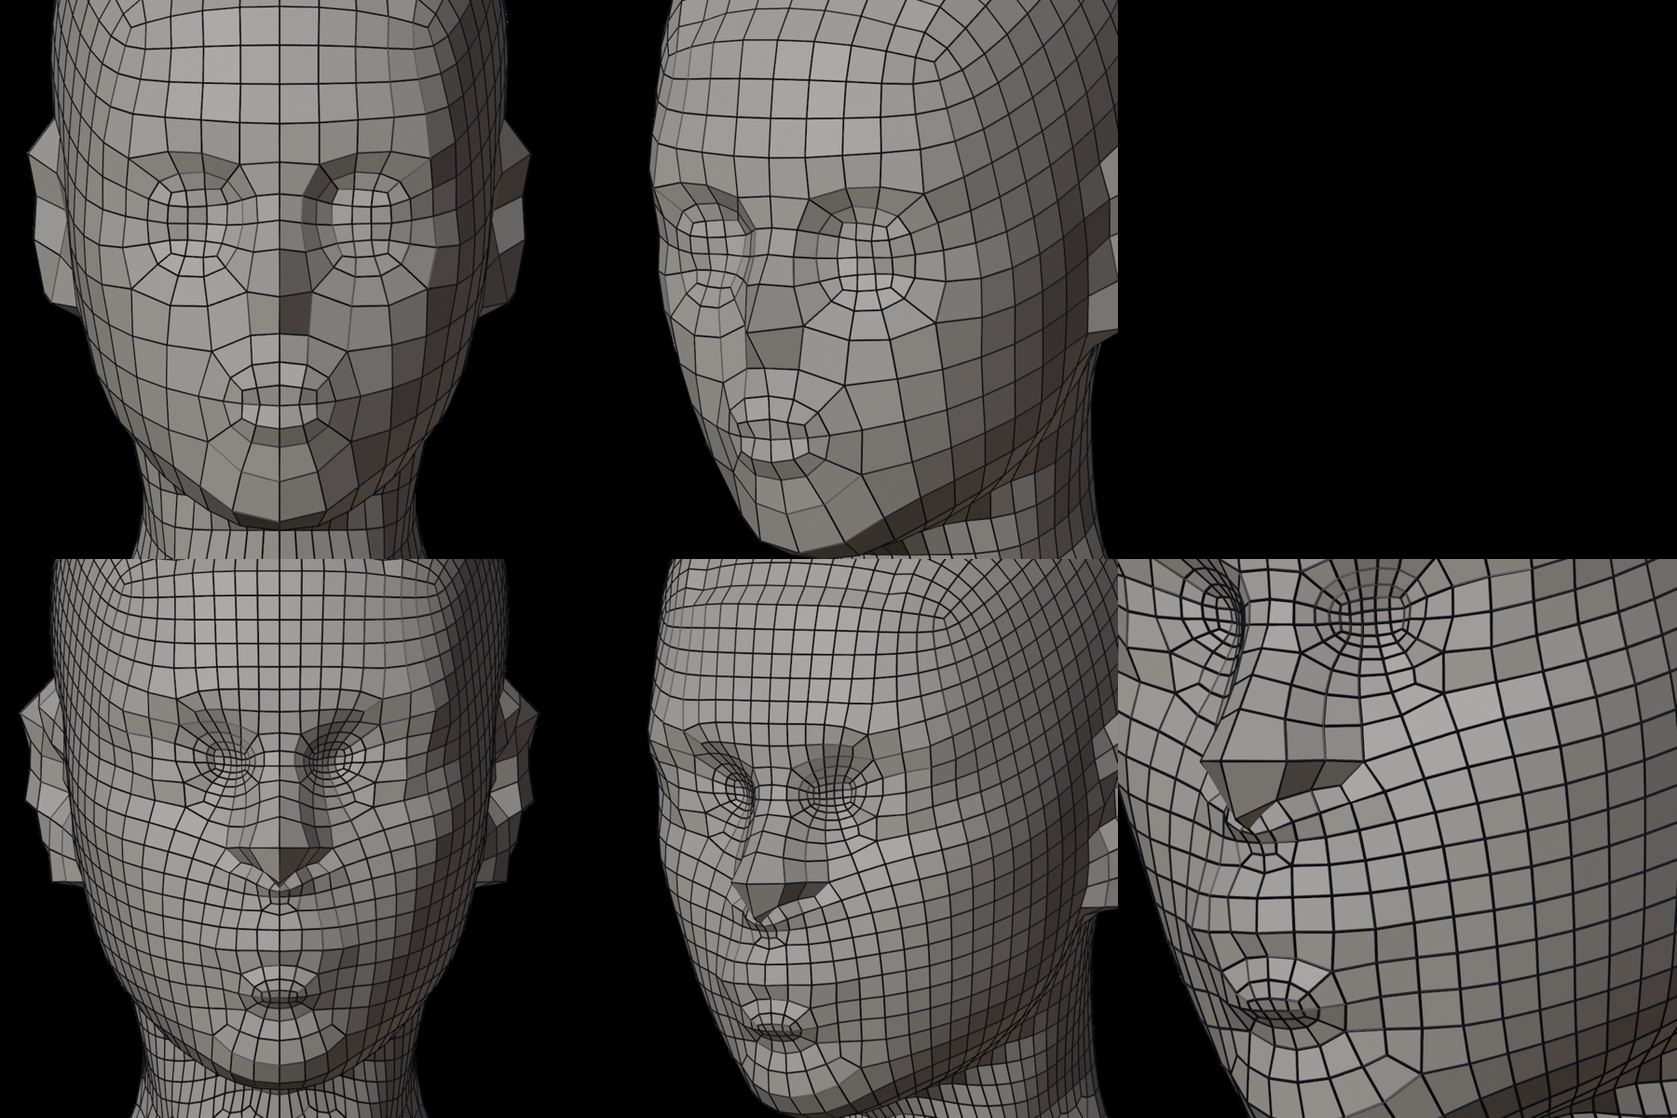
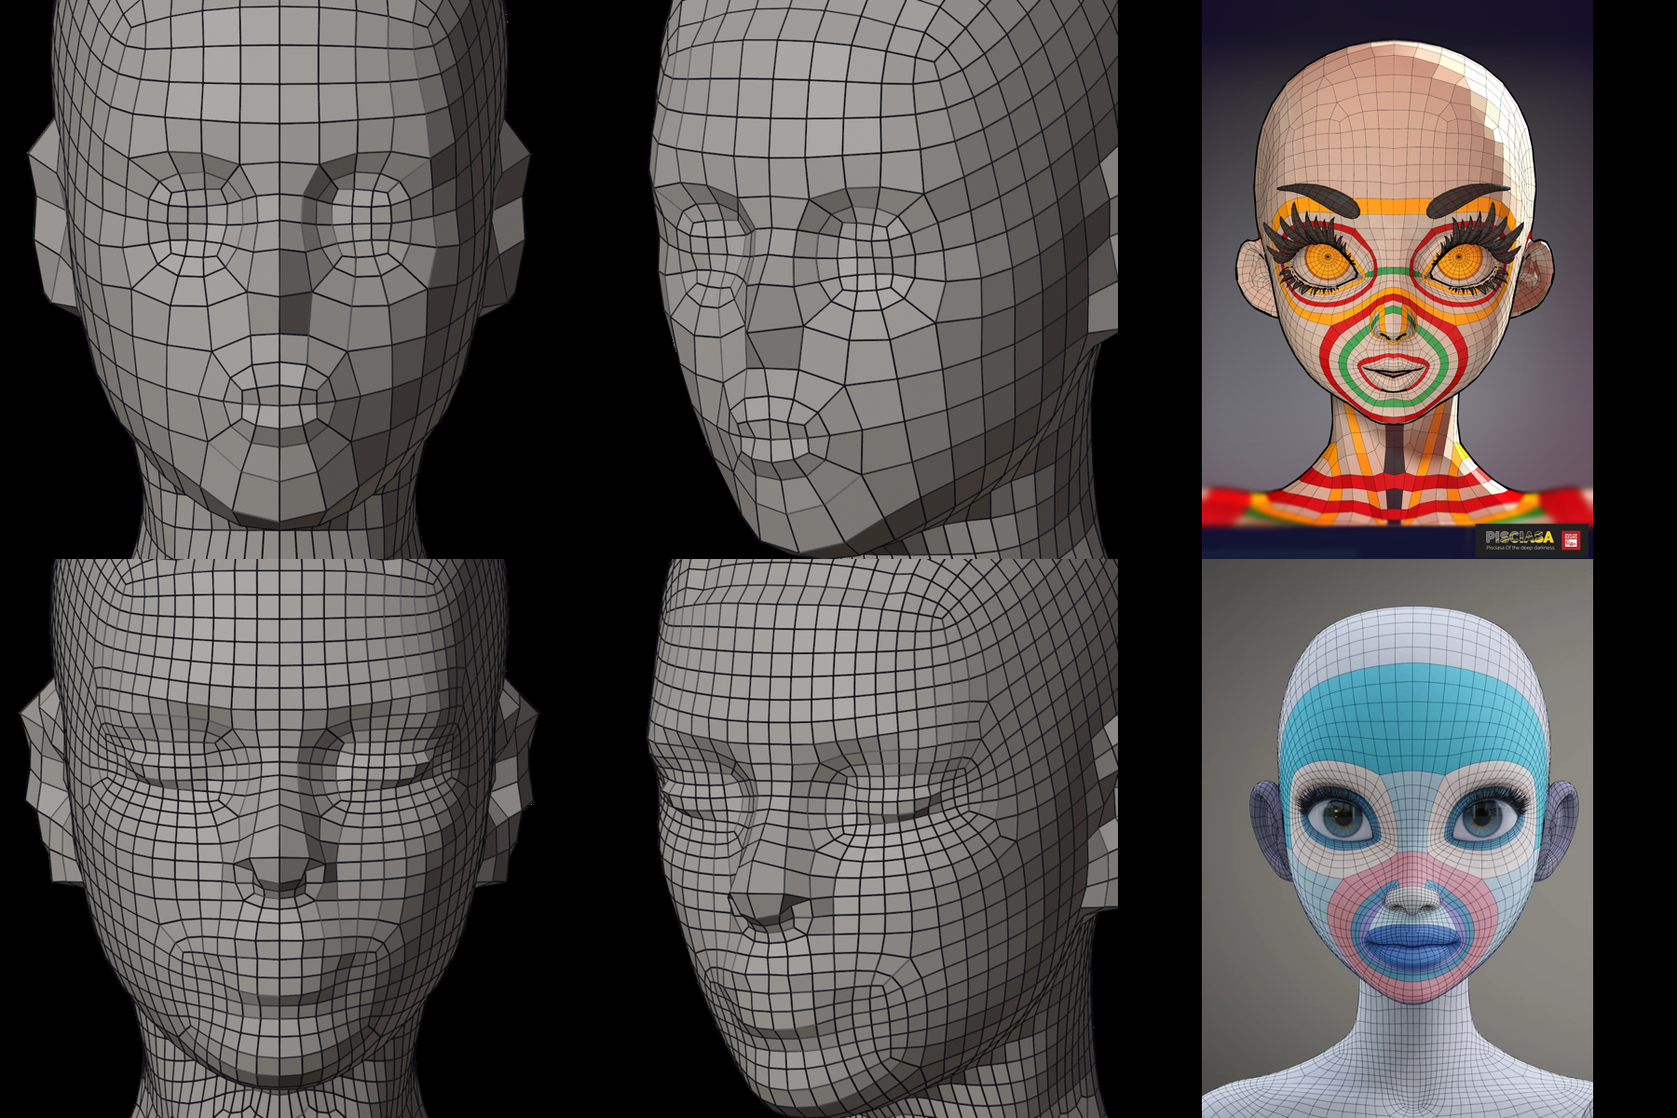
Face loops laid out as the references: mask, eyes, nose loop, mouth nest
With ZR_FACE=1 (which now implies the 0.6 head): the mask runs from above
the brows to above the nose tip; the eyes fill its halves, placed and sized
by the face's proportions (the socket's deepest point is the inner corner)
and not lifted into the socket; the nose is a loop round the tip and
nostrils; the mouth is the largest nest, rounded rings from under the nose
to the chin. Chin and mouth come from the centre-line profile. T-pose: 0.7%
badly shaped at 10k and 20k, 1.6% at 5k, no folds. Still opt-in; default
output is byte-identical to 0.50.0.

diff --git a/src/zremesh/layout/face.rs b/src/zremesh/layout/face.rs
@@ -360,16 +360,21 @@ pub(super) fn marks(c: &Ctx, out_p: &[Vec3], quads: &[[u32; 4]], upper: &HashSet
     let h = dips(1.0);
     let h_eye = if reach > 1.05 { dips(reach) } else { h.clone() };
     let nose = (0..line.len() - 1).min_by(|&a, &b| h[line[a] as usize].total_cmp(&h[line[b] as usize])).ok_or("no nose")?;
-    // The chin: the last point below the nose before the surface turns under the jaw.
-    // (Past the nose's underside first, which faces down too.)
-    let lip = (nose + 1..line.len()).find(|&i| nrm[line[i] as usize].y > -0.3).ok_or("no lip below the nose")?;
-    let chin = (lip..line.len()).take_while(|&i| nrm[line[i] as usize].y > -0.85).last().ok_or("no chin below the nose")?;
-    // The mouth: the deepest dip between the nose and the chin, two rows clear of each (the
-    // first pause below the nose is the dip under it, on a finer head).
-    let mouth = if std::env::var_os("ZR_MOUTHPAUSE").is_some() {
-        (nose + 1..line.len() - 1).find(|&i| h[line[i] as usize] > h[line[i - 1] as usize] && h[line[i] as usize] >= h[line[i + 1] as usize]).ok_or("no mouth below the nose")?
-    } else {
+    // Down the profile (how far forward each centre-line point stands): the nose's base, the
+    // first point below the tip that stands less far than the one after it; the chin, the
+    // point standing furthest out below that (past the lips), and down from it while within
+    // two cells of it; the mouth a third of the way from the nose's base to the chin (the
+    // proportion of a face; `ZR_MOUTHDIP` the deepest dip between them instead).
+    let z = |i: usize| out_p[line[i] as usize][fwd];
+    let base = (nose + 1..line.len() - 1).find(|&i| z(i) <= z(i + 1)).ok_or("no base under the nose")?;
+    let lips_end = (base + 1..line.len()).find(|&i| out_p[line[i] as usize].y < out_p[line[base] as usize].y - (out_p[line[base] as usize].y - out_p[line[line.len() - 1] as usize].y) * 0.4).unwrap_or(base + 1);
+    let chin_tip = (lips_end..line.len()).max_by(|&a, &b| z(a).total_cmp(&z(b)).then(b.cmp(&a))).ok_or("no chin")?;
+    let chin = (chin_tip..line.len()).take_while(|&i| z(i) > z(chin_tip) - cell * 2.0).last().unwrap_or(chin_tip);
+    let mouth = if std::env::var_os("ZR_MOUTHDIP").is_some() {
         (nose + 2..chin.saturating_sub(1)).max_by(|&a, &b| h[line[a] as usize].total_cmp(&h[line[b] as usize]).then(b.cmp(&a))).ok_or("no room for a mouth between nose and chin")?
+    } else {
+        let my = out_p[line[base] as usize].y - (out_p[line[base] as usize].y - out_p[line[chin] as usize].y) / 3.0;
+        (base + 1..chin).min_by(|&a, &b| (out_p[line[a] as usize].y - my).abs().total_cmp(&(out_p[line[b] as usize].y - my).abs())).ok_or("no room for a mouth between nose and chin")?
     };
     let ny = out_p[line[nose] as usize].y;
     // The eye: the deepest dip above the nose, within four cells of the centre line (the two
@@ -391,11 +396,24 @@ pub(super) fn marks(c: &Ctx, out_p: &[Vec3], quads: &[[u32; 4]], upper: &HashSet
             sp += out_p[v].as_dvec3() * wgt;
         }
     }
-    let eye_at = if sw > 0.0 { (sp / sw).as_vec3() } else { out_p[eye] };
+    let eye_dip = if sw > 0.0 { (sp / sw).as_vec3() } else { out_p[eye] };
+    // The face's half width at that height: out along the head to where the surface turns
+    // to the side. The eye's middle across is `ZR_EYEX` (0.45) of it, its half width
+    // `ZR_EYEW` (0.2): the hollow's deepest part is the inner corner, too near the nose.
+    let envf = |k: &str, d: f32| std::env::var(k).ok().and_then(|v| v.parse::<f32>().ok()).unwrap_or(d);
+    let half_w = (0..np).filter(|&v| upper.contains(&(v as u32)) && (out_p[v].y - eye_dip.y).abs() < cell * 0.75 && pl.distance(out_p[v]) > 0.0 && nrm[v][fwd] > 0.25).map(|v| pl.distance(out_p[v])).fold(0.0f32, f32::max);
+    let eye_at = if half_w > cell * 3.0 && std::env::var_os("ZR_EYEDIP").is_none() {
+        let target = pl.distance(eye_dip).max(half_w * envf("ZR_EYEX", 0.45));
+        // The grid point on that row nearest that far out (its position on the surface).
+        (0..np).filter(|&v| upper.contains(&(v as u32)) && (out_p[v].y - eye_dip.y).abs() < cell * 0.75 && pl.distance(out_p[v]) > 0.0).min_by(|&a, &b| (pl.distance(out_p[a]) - target).abs().total_cmp(&(pl.distance(out_p[b]) - target).abs())).map_or(eye_dip, |v| out_p[v])
+    } else {
+        eye_dip
+    };
+    let eye_w = if half_w > cell * 3.0 { half_w * envf("ZR_EYEW", 0.2) } else { 0.0 };
     let socket: Vec<usize> = (0..np).filter(|&v| upper.contains(&(v as u32)) && pl.distance(out_p[v]) > 0.0 && out_p[v].distance(eye_at) < cell * 5.0 && h_eye[v] > deep * 0.4).collect();
     let eye_r = (
-        socket.iter().map(|&v| (pl.distance(out_p[v]) - pl.distance(eye_at)).abs()).fold(cell, f32::max),
-        socket.iter().map(|&v| (out_p[v].y - eye_at.y).abs()).fold(cell, f32::max),
+        socket.iter().map(|&v| (pl.distance(out_p[v]) - pl.distance(eye_at)).abs()).fold(cell, f32::max).max(eye_w),
+        socket.iter().map(|&v| (out_p[v].y - eye_at.y).abs()).fold(cell, f32::max).min(eye_w.max(cell) * 0.8),
     );
     let ey = eye_at.y;
     let eye_row = (0..line.len()).min_by(|&a, &b| (out_p[line[a] as usize].y - ey).abs().total_cmp(&(out_p[line[b] as usize].y - ey).abs())).unwrap_or(0);
@@ -406,12 +424,17 @@ pub(super) fn marks(c: &Ctx, out_p: &[Vec3], quads: &[[u32; 4]], upper: &HashSet
     Ok(Marks { line, eye: eye_at, eye_r, eye_row, nose, mouth, chin })
 }
 
-/// The nest, on the plain head grid (rows round the head, the centre line a grid line):
-/// the mask from two rows above the eyes to three below, as wide as the eyes and two
-/// columns more; the eyes as a pair inside its grid; the loop round nose and mouth from the
-/// row under the mask to the row above the chin; the nose and the mouth inside its grid.
-/// False (and nothing changed) when the landmarks are not found or the mask does not fit;
-/// later steps that do not fit are left out with a log line.
+/// The nest, laid out as the reference base meshes are (quadremesh-ref 3.jpg, 4.jpg, a.webp),
+/// top to bottom on the plain head grid:
+/// - the mask (the goggle loop) from above the brows to the row above the nose tip, as wide
+///   as the eyes and their sockets and two columns more;
+/// - the eyes filling its two halves, a column of bridge between them and a row clear of its
+///   top and bottom, ringed up to three times toward the socket;
+/// - the nose, a narrow loop from the mask down past the nostrils;
+/// - the mouth, the largest nest: rings from the row under the nose to the chin, as wide as
+///   the mask less a column, up to three, round a wide grid for the lips.
+/// False (and nothing changed) when the landmarks are not found or the mask or the eyes do
+/// not fit; the nose or the mouth that do not fit are left out with a log line.
 pub(super) fn nest(c: &Ctx, out_p: &mut Vec<Vec3>, quads: &mut Vec<[u32; 4]>, upper: &HashSet<u32>, lower: &HashSet<u32>, orient: &dyn Fn(&mut [[u32; 4]], &[Vec3])) -> bool {
     let pl = c.plane;
     let m = match marks(c, out_p, quads, upper, lower) {
@@ -425,105 +448,82 @@ pub(super) fn nest(c: &Ctx, out_p: &mut Vec<Vec3>, quads: &mut Vec<[u32; 4]>, up
     };
     let line = m.line.clone();
     let er = m.eye_row;
-    if er < 2 || er + 5 >= m.chin {
+    let env = |k: &str, d: usize| std::env::var(k).ok().and_then(|v| v.parse::<usize>().ok()).unwrap_or(d);
+    let cell = out_p[line[er] as usize].distance(out_p[line[(er + 1).min(line.len() - 1)] as usize]).max(1e-6);
+    let col_eye = ((pl.distance(m.eye) / cell).round() as usize).max(1);
+    let (rx, ry) = (((m.eye_r.0 / cell).round() as usize).clamp(1, 5), ((m.eye_r.1 / cell).round() as usize).clamp(1, 4));
+    if c.debug {
+        eprintln!("  face: eye at {:.3} (column {col_eye}, row {er}, reaching {rx} across, {ry} up and down), nose row {}, mouth row {}, chin row {}, cell {:.4}", m.eye, m.nose, m.mouth, m.chin, cell);
+        eprintln!("  face: centre line heights {:?}", line.iter().map(|&v| (out_p[v as usize].y * 1000.0).round() / 1000.0).collect::<Vec<_>>());
+    }
+    // The mask: from above the brows to the row above the nose tip.
+    let mask_top = er.saturating_sub(env("ZR_MASKUP", ry + 2));
+    let mask_bot = m.nose.saturating_sub(env("ZR_MASKNOSE", 1)).max(er + ry + 1);
+    let mask_half = col_eye + rx + env("ZR_MASKW", 2);
+    if mask_bot <= mask_top + 3 || mask_bot >= m.mouth {
         if c.debug {
-            eprintln!("  face: the eyes (row {er}) too near the top or the chin (row {}); as before", m.chin);
+            eprintln!("  face: no room for the mask (rows {mask_top} to {mask_bot}, the mouth at {}); as before", m.mouth);
         }
         return false;
     }
-    let cell = out_p[line[er] as usize].distance(out_p[line[er + 1] as usize]).max(1e-6);
-    let col_eye = ((pl.distance(m.eye) / cell).round() as usize).max(1);
-    // The socket's reach in cells, and the eye block over it (`ZR_EYEBLOCK` cells across: the
-    // socket's width by default).
-    let (rx, ry) = (((m.eye_r.0 / cell).round() as usize).clamp(1, 4), ((m.eye_r.1 / cell).round() as usize).clamp(1, 3));
-    let env = |k: &str, d: usize| std::env::var(k).ok().and_then(|v| v.parse::<usize>().ok()).unwrap_or(d);
-    if c.debug {
-        eprintln!("  face: eye at {:.3} (column {col_eye}, row {er}), nose row {}, mouth row {}, chin row {}, cell {:.4}", m.eye, m.nose, m.mouth, m.chin, cell);
-        eprintln!("  face: centre line heights {:?}", line.iter().map(|&v| (out_p[v as usize].y * 1000.0).round() / 1000.0).collect::<Vec<_>>());
-    }
-    // Undone (the eyes and mouth then as before) when the eyes do not fit in the mask.
     let (keep_p, keep_q) = (out_p.clone(), quads.clone());
-    // The mask (the goggle loop).
-    let mask_half = col_eye + rx + env("ZR_MASKW", 1);
-    // Down to two rows above the nose tip at most, so the nose is inside the loop below.
-    let above = env("ZR_MASKUP", ry + 1).min(er);
-    let below = env("ZR_MASKDOWN", ry + 2).min(m.nose.saturating_sub(er + 2)).max(1);
-    let Some(mask) = straddle(c, out_p, quads, line[er - above], mask_half, above + below, 1, 0.6, None, "mask") else {
+    let undo = |out_p: &mut Vec<Vec3>, quads: &mut Vec<[u32; 4]>, why: &str| {
+        *out_p = keep_p.clone();
+        *quads = keep_q.clone();
+        if c.debug {
+            eprintln!("  face: {why}; the eyes and the mouth as before");
+        }
+    };
+    let Some(mask) = straddle(c, out_p, quads, line[mask_top], mask_half, mask_bot - mask_top, 1, 0.5, None, "mask") else {
+        undo(out_p, quads, "no mask");
         return false;
     };
     orient(quads, out_p);
-    // The eyes inside it: as many rows as the mask's grid leaves one above and below, three
-    // columns (two if they do not fit).
-    let among: Vec<u32> = mask.iter().flatten().copied().collect();
+    // The eyes filling its halves: past `ZR_BRIDGE` (1) columns each side of the plane to a
+    // column short of the side, a row clear of the top and the bottom.
     let rows = mask.len().saturating_sub(1);
-    let a0 = env("ZR_EYEBLOCK", 2 * rx + 1).clamp(2, 2 * mask_half);
-    let b_e = (2 * ry + 1).min(rows.saturating_sub(2)).max(1);
-    if c.debug {
-        eprintln!("  face: socket reaches {rx} cells across, {ry} up and down; mask half {mask_half}, {above} rows up, {below} down");
-    }
+    let bridge = env("ZR_BRIDGE", 1);
+    let among: Vec<u32> = mask.iter().flatten().copied().collect();
     let mut eyes = false;
-    for a_e in (2..=a0).rev() {
-        let k = if a_e >= 5 { 3 } else if a_e >= 3 { 2 } else { 1 };
-        if paired(c, out_p, quads, &among, m.eye, a_e, b_e, k, 1.0, Some(m.eye), "eyes") {
+    'fit: for shrink in 0..3usize {
+        // As wide as the socket, at most the half less the bridge and a column; two thirds as
+        // tall, a row clear of the mask's top and bottom.
+        let a_e = (2 * rx + 1).min(mask_half.saturating_sub(bridge + 1)).saturating_sub(shrink).max(2);
+        let b_e = ((2 * a_e).div_ceil(3)).min(rows.saturating_sub(2)).saturating_sub(shrink / 2).max(1);
+        // Its middle: the mask's grid point that far out on the + side, half way down.
+        let k = (a_e.min(b_e) / 2).clamp(1, 3);
+        // (On the surface, not lifted toward the socket: the lift dug channels by the nose.)
+        if paired(c, out_p, quads, &among, m.eye, a_e, b_e, k, 1.0, None, "eyes") {
             eyes = true;
-            break;
+            break 'fit;
         }
     }
     if !eyes {
-        *out_p = keep_p;
-        *quads = keep_q;
-        if c.debug {
-            eprintln!("  face: the eyes do not fit in the mask; the eyes and the mouth as before");
-        }
+        undo(out_p, quads, "the eyes do not fit in the mask");
         return false;
     }
     orient(quads, out_p);
-    // The loop round the nose and the mouth: from the row under the mask to the row above
-    // the chin.
-    let top = er + below + 1;
-    let bottom = m.chin.saturating_sub(1);
-    if bottom <= top + 2 {
-        if c.debug {
-            eprintln!("  face: no room for the nose and mouth loop (rows {top} to {bottom})");
+    // The nose: from the mask's bottom down to two rows above the mouth (past the nostrils).
+    // (Two columns each side: the nostrils' width.)
+    let nose_half = env("ZR_NOSEW", 2);
+    let nose_bot = m.mouth.saturating_sub(2).max(m.nose + 1);
+    if nose_bot > mask_bot {
+        if straddle(c, out_p, quads, line[mask_bot], nose_half, nose_bot - mask_bot, 1, 0.8, None, "nose").is_some() {
+            orient(quads, out_p);
         }
-        return true;
     }
-    let muzzle_half = (col_eye + env("ZR_MUZZLEW", 1)).min(mask_half);
-    let Some(muzzle) = straddle(c, out_p, quads, line[top], muzzle_half, bottom - top, env("ZR_MUZZLEK", 1), 0.6, None, "nose and mouth loop") else {
-        return true;
-    };
-    orient(quads, out_p);
-    // Inside it: its centre column top to bottom.
-    let mut col: Vec<u32> = muzzle.iter().map(|r| r[muzzle_half]).collect();
-    if out_p[col[0] as usize].y < out_p[col[col.len() - 1] as usize].y {
-        col.reverse();
-    }
-    let my = out_p[line[m.mouth] as usize].y;
-    let jm = (1..col.len().saturating_sub(1)).min_by(|&a, &b| (out_p[col[a] as usize].y - my).abs().total_cmp(&(out_p[col[b] as usize].y - my).abs())).unwrap_or(1);
-    // The mouth: a row above it to a row below, two columns in from the loop's sides.
-    // (Two rows when the loop has them below: from a row above the mouth to a row below.)
-    let mouth_top = jm.saturating_sub(1).max(1).min(col.len().saturating_sub(4).max(1));
-    let mouth_half = muzzle_half.saturating_sub(1).max(1);
-    let mouth_rows = 2usize.min(col.len().saturating_sub(1 + mouth_top + 1)).max(1);
-    // The nose first, centred on its tip: two rows above it (not above the loop's second
-    // row) to a row clear of the mouth.
-    let nose_tip = out_p[line[m.nose] as usize];
-    let jn = (1..col.len().saturating_sub(1)).min_by(|&a, &b| (out_p[col[a] as usize].y - nose_tip.y).abs().total_cmp(&(out_p[col[b] as usize].y - nose_tip.y).abs())).unwrap_or(1);
-    let nose_top = jn.saturating_sub(1);
-    let nose_rows = (jn + 2).min(mouth_top.saturating_sub(1)).saturating_sub(nose_top);
-    if nose_rows >= 2 {
-        // (On the surface, not lifted toward the tip: the block is round and below it, and a
-        // lift there raises a second tip.)
-        if straddle(c, out_p, quads, col[nose_top], 1, nose_rows, 1, 0.8, None, "nose").is_some() {
+    // The mouth: from the row under the nose to the chin, out to a column past the eyes' middles.
+    let top = nose_bot + 1;
+    let rows_m = m.chin.saturating_sub(top);
+    let mouth_half = env("ZR_MOUTHW", col_eye + 1).max(2);
+    let k_m = (rows_m.saturating_sub(1) / 2).clamp(1, env("ZR_MOUTHK", 3));
+    if rows_m >= 2 {
+        // (Rounded all the way: the mouth's loops are ovals.)
+        if straddle(c, out_p, quads, line[top], mouth_half, rows_m, k_m, 1.0, None, "mouth").is_some() {
             orient(quads, out_p);
         }
     } else if c.debug {
-        eprintln!("    face: nose: no room between the loop's top and the mouth");
-    }
-    // (Two rings only in a block two rows tall: one row squeezes them into slivers.)
-    let mouth_k = if mouth_half >= 2 && mouth_rows >= 2 { 2 } else { 1 };
-    if straddle(c, out_p, quads, col[mouth_top], mouth_half, mouth_rows, mouth_k, 0.9, None, "mouth").is_some() {
-        orient(quads, out_p);
+        eprintln!("  face: mouth: no room between the nose (row {nose_bot}) and the chin (row {})", m.chin);
     }
     true
 }

diff --git a/src/zremesh/layout/body.rs b/src/zremesh/layout/body.rs
@@ -759,7 +759,8 @@ enum Head<'a> {
 /// taken at the finer quad; the trunk's count is stepped down to under the neck. 1.0 builds
 /// the head as the body, as does a head that fails at the finer quad.
 pub(super) fn sweep_body(w: &Work, phi: &[f32], quad: f32, src: u32, plane: Option<MirrorPlane>, feats: &BodyFeatures) -> Result<(Vec<Vec3>, Vec<[u32; 4]>), String> {
-    let f: f32 = std::env::var("ZR_HEADQUAD").ok().and_then(|v| v.parse().ok()).unwrap_or(1.0);
+    // (The face loops need the finer head: with `ZR_FACE` it defaults to 0.6.)
+    let f: f32 = std::env::var("ZR_HEADQUAD").ok().and_then(|v| v.parse().ok()).unwrap_or(if std::env::var_os("ZR_FACE").is_some() { 0.6 } else { 1.0 });
     if plane.is_none() || !(0.2..1.0).contains(&f) {
         return sweep_body_with(w, phi, quad, src, plane, feats, Head::Plain);
     }

diff --git a/handoff.md b/handoff.md
@@ -1062,6 +1062,8 @@ The user shared four reference images of hand-made / Quad Remesher-quality chara
 - **Face nest** (`src/zremesh/layout/face.rs`, opt-in `ZR_FACE=1`, replacing the old eye and mouth insets when it runs): `marks()` finds on the plain head grid the centre line (on-plane front-facing points top to bottom), the nose (most protruding), the chin (past the nose's underside, the last point before the surface faces under the jaw), the mouth (the deepest dip between nose and chin; `ZR_MOUTHPAUSE` the old first pause, which on a finer head is the dip under the nose), and the eye socket (the deepest dip within 4.5 cells of the centre line and no more than 3 behind the nose tip, then the depth-weighted middle of the hollow, and its reach across and up/down; the smoothing for the eye scaled by the square of how much finer the cells are). `straddle()` cuts a rectangle across the centre line below an on-plane point, rings it a cell at a time (`rings_in`: unlike `rect::inset_fill`, which shrinks toward the middle) and caps it, exactly mirrored; `paired()` does a mirrored pair. `nest()`: mask (the goggle loop) from the socket's reach + 1 row above the eye row to at most two rows above the nose tip, as wide as the eyes plus their reach + 1; the eyes as a pair inside its grid, sized by the socket (`ZR_EYEBLOCK`), up to 3 rings; the loop round nose and mouth (`ZR_MUZZLEK` rings, 1) from the row under the mask to the row above the chin; inside it the nose (centred on the tip, not lifted: a lift raised a second tip) and the mouth (two rows when there is room, else one ring). If the eyes do not fit in the mask, everything is undone and the old eyes and mouth run (on the coarse head the eyes do not fit: `ZR_FACE=1` alone gives exactly the 0.50.0 output).
 - T-pose with `ZR_FACE=1 ZR_HEADQUAD=0.6`: 10k 0.7% bad (released 0.5%), head 1.4% (0.6%), 322 poles (270), 0 folded, exact mirror; the face reads as a modeller's (`deep-test/2026-11-05-layout/face-nest.png`: top released, bottom nest; right, the mouth): concentric loops on the sockets inside a mask loop, a nose loop, a loop round nose and mouth, a lip loop. 5k: eyes only 2 × 2, 1.6% bad (1.5%). 20k: 1 folded, 4 collapsed, nose 3.4%, and the mouth found too low (row 39 of 44, the crease above the chin). Still opt-in for those. Next: the mouth search at 20k, the 20k nose, the eyes at 5k (a finer head factor there), then make both default.
 
+- **Face, second pass against the references** (3.jpg, 4.jpg, a.webp): the nest is now laid out as they are, top to bottom: the mask from `ry + 2` rows above the eye row (above the brows) to the row above the nose tip, out to the eye's column + its reach + 2; the eyes filling the mask's halves (as wide as the socket, two thirds as tall, a column of bridge, rings `min(a, b) / 2` up to 3, not lifted: the lift dug channels by the nose); the nose a loop two columns either side of the plane from the mask down to two rows above the mouth (the nostrils); the mouth the largest nest, from the row under the nose to the chin, out to a column past the eyes' middles, up to 3 rings, rounded fully (ovals). Landmarks: the eye's middle across is `ZR_EYEX` (0.45) of the face's half width at that height (out to where the surface turns to the side) and its half width `ZR_EYEW` (0.2) of it (the socket's deepest point is the inner corner; `ZR_EYEDIP` the old); down the centre-line profile the nose's base (first point below the tip standing less far out than the next), the chin (the point standing furthest out past the lips, down while within two cells of it) and the mouth a third of the way from the nose's base to the chin (`ZR_MOUTHDIP` the deepest dip). `ZR_FACE=1` now implies `ZR_HEADQUAD=0.6`. T-pose: 5k 1.6% bad (released 1.5%; no room for the nose loop), 10k 0.7% (0.5%), 314 poles (270), exact mirror; 20k 0.7% (0.4%), 392 poles (336); 0 folded at all three (head 0.5 folds two quads behind the ears at 10k). `deep-test/2026-11-05-layout/face-nest.png`: top released, bottom the nest at 10k, the references at the right. Still opt-in: it changes every symmetric body's head (more rows, more poles, slightly more badly shaped quads). Next ideas: a coloured loop render to compare with the references directly; more eye rings out to the mask (the references have 3–4); an ear cap.
+
 ## Step 109 — Release 0.50.0 (2026-11-08)
 
 - Published as tag `v0.50.0` with a GitHub release (AppImage, Flatpak, .deb). 0.50.0 had been set in Step 107 but never tagged or pushed, so it carries Step 107 (Transpose axis snapping, model floor, SubTool symmetry) and Step 108 (ZRemesher Plan Layout with the box-modeller body builder, experimental and off; Follow Shape and Detect Edges on by default). `zremesh-topology` was fast-forwarded into `main`; the unfinished shoulder-yoke branch `worktree-wf_9af7fe95-f0a-3` is not in it.
